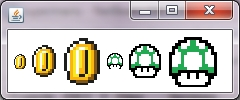
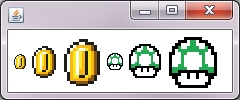
Slight change to mushroom size setting

diff --git a/src/supermario/Mushroom.java b/src/supermario/Mushroom.java
@@ -40,7 +40,7 @@ public class Mushroom extends JPanel {
         g2.setStroke(new BasicStroke(pixelSize));        
         this.setOpaque(false);        
         this.setPreferredSize(new Dimension(MUSHROOM_WIDTH*pixelSize,
-                (MUSHROOM_HEIGHT*pixelSize)+(pixelSize/2)));
+                (MUSHROOM_HEIGHT*pixelSize)+(pixelSize/2)+1));
         this.setSize(getPreferredSize());
         this.revalidate();
         drawMushroom(g);
